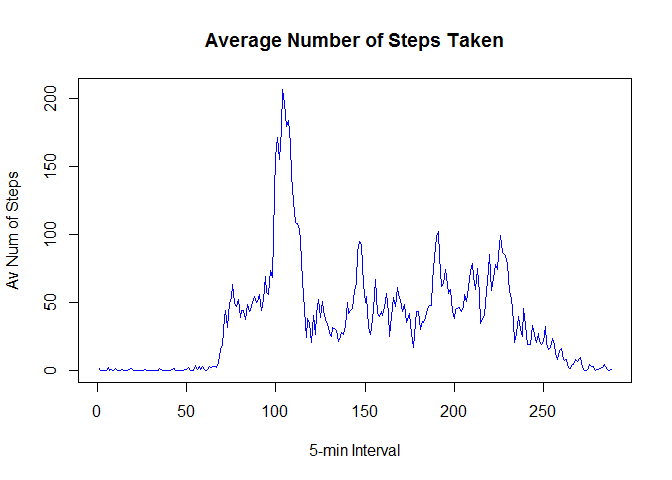
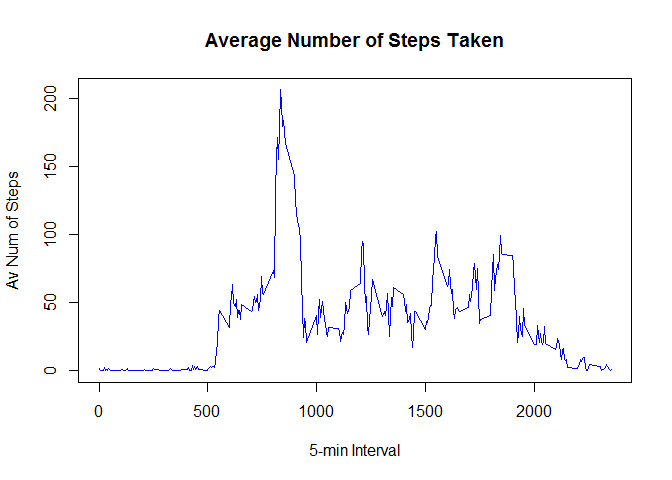
Order the Data Frame and Get Top Result

diff --git a/PA1_template.html b/PA1_template.html
@@ -137,13 +137,18 @@ stepDayMedian &lt;- median(stepDay$steps_by_day)</code></pre>
 <li>Make a time series plot (i.e. type = “l”) of the 5-minute interval (x-axis) and the average number of steps taken, averaged across all days (y-axis)</li>
 </ol>
 <pre class="r"><code>#average number of steps taken (mean) within each interval
-stepInterval &lt;- tapply(activity$steps, activity$interval, mean, na.rm = TRUE)
-#plot
+stepInterval &lt;- aggregate(list(stepMean=activity$steps), list(interval=activity$interval), mean, na.rm=TRUE)
+#plot the line plot
 plot(stepInterval, type=&quot;l&quot;, xlab=&quot;5-min Interval&quot;, ylab=&quot;Av Num of Steps&quot;, main = &quot;Average Number of Steps Taken&quot;, col = &quot;blue&quot;)</code></pre>
[2 lines of base64/hex data omitted]
 <ol start="2" style="list-style-type: decimal">
 <li>Which 5-minute interval, on average across all the days in the dataset, contains the maximum number of steps?</li>
 </ol>
+<pre class="r"><code>stepIntervalOrdered &lt;- arrange(stepInterval, desc(stepMean))
+stepIntervalOrdered[1,]</code></pre>
+<pre><code>##   interval stepMean
+## 1      835 206.1698</code></pre>
+<p><strong>The maximum number of steps (on average 206.1698) is on Interval 835.</strong></p>
 </div>
 <div id="imputing-missing-values" class="section level2">
 <h2>Imputing missing values</h2>

diff --git a/PA1_template.md b/PA1_template.md
@@ -94,8 +94,8 @@ stepDayMedian <- median(stepDay$steps_by_day)
 
 ```r
 #average number of steps taken (mean) within each interval
-stepInterval <- tapply(activity$steps, activity$interval, mean, na.rm = TRUE)
-#plot
+stepInterval <- aggregate(list(stepMean=activity$steps), list(interval=activity$interval), mean, na.rm=TRUE)
+#plot the line plot
 plot(stepInterval, type="l", xlab="5-min Interval", ylab="Av Num of Steps", main = "Average Number of Steps Taken", col = "blue")
 ```
 
@@ -103,6 +103,16 @@ plot(stepInterval, type="l", xlab="5-min Interval", ylab="Av Num of Steps", main
 
 2. Which 5-minute interval, on average across all the days in the dataset, contains the maximum number of steps?  
 
+```r
+stepIntervalOrdered <- arrange(stepInterval, desc(stepMean))
+stepIntervalOrdered[1,]
+```
+
+```
+##   interval stepMean
+## 1      835 206.1698
+```
+**The maximum number of steps (on average 206.1698) is on Interval 835.**  
 
 ## Imputing missing values  
 
